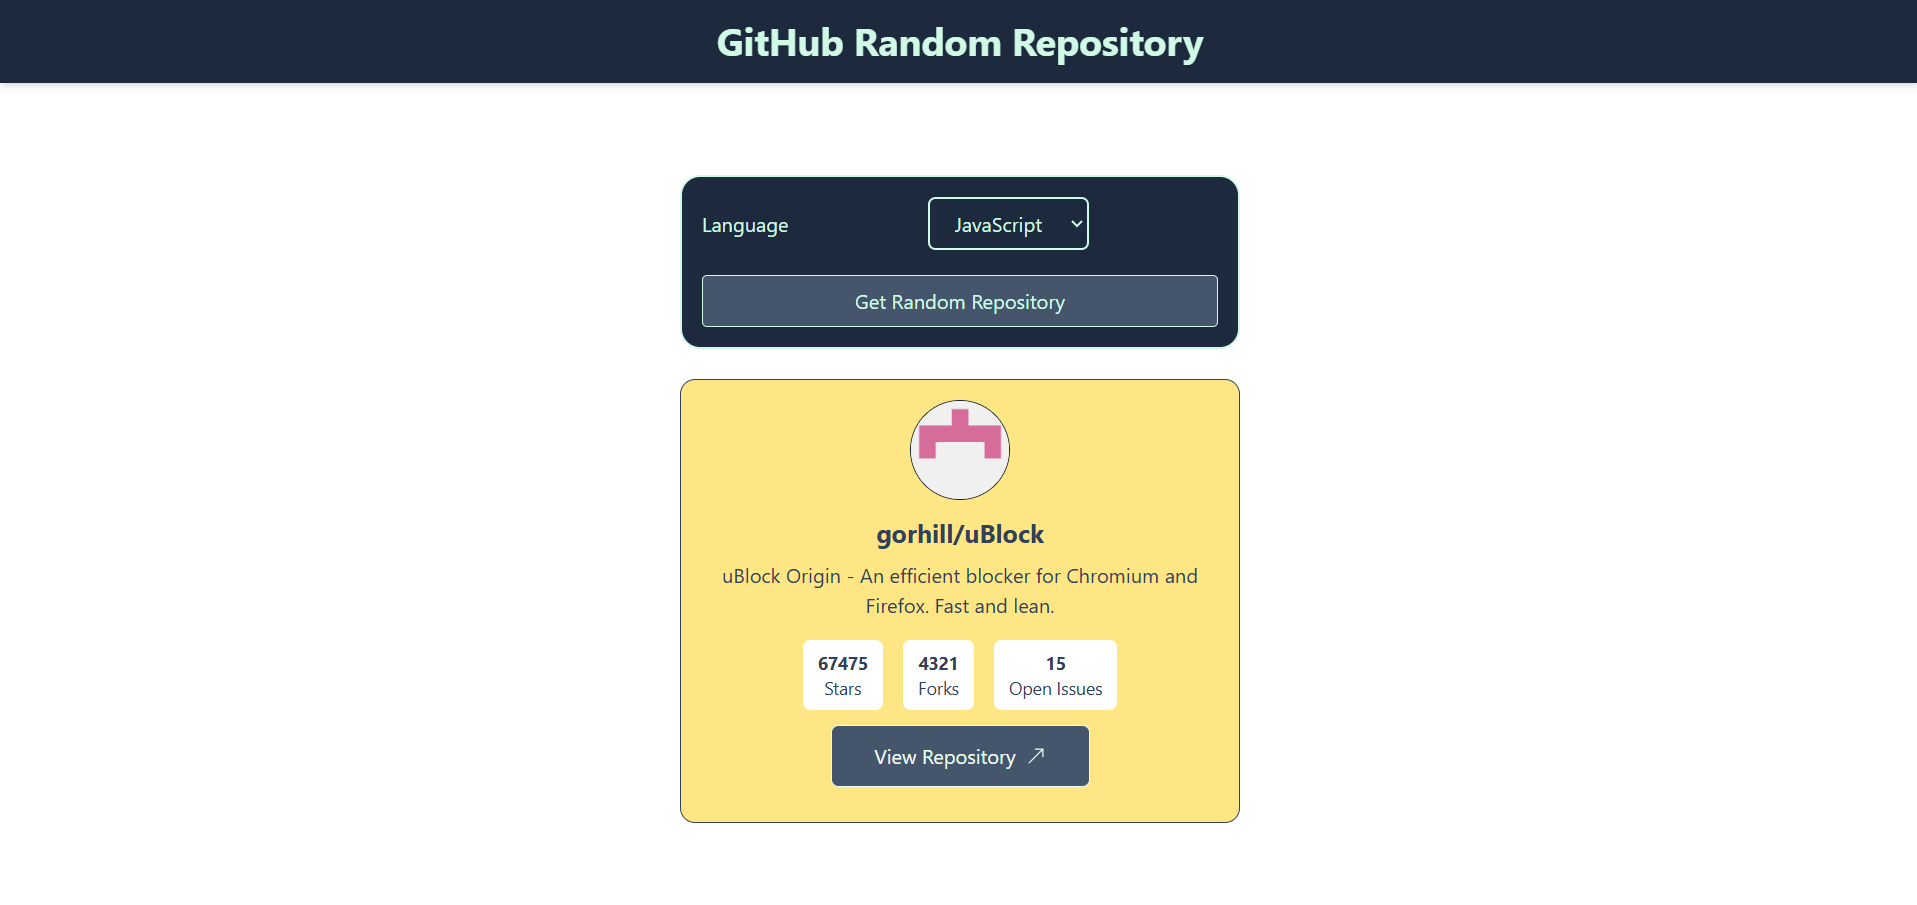
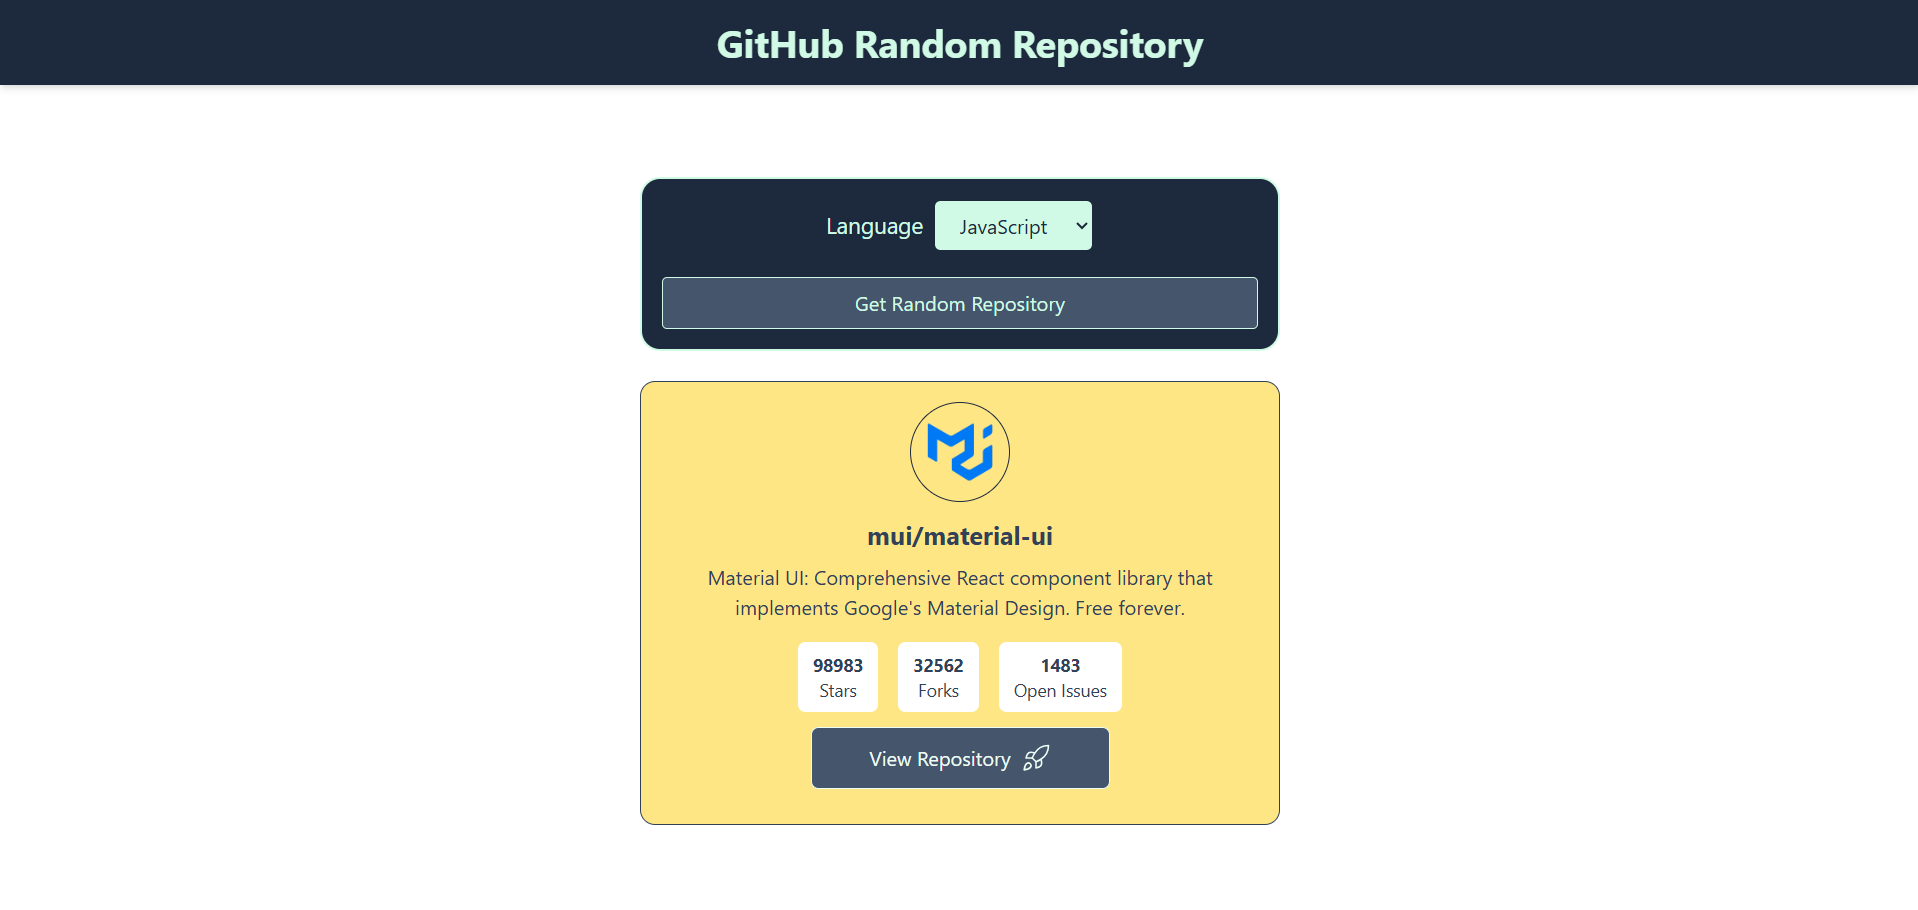
23: Another round for the GitHub Repeositiry project:
* Different components created

diff --git a/23-github-random-repository/src/App.jsx b/23-github-random-repository/src/App.jsx
@@ -1,15 +1,18 @@
 import { useEffect, useState } from "react";
 import { LANGUAGES } from "./languages";
+import { Rocket } from 'lucide-react';
 
 export default function App() {
   const [language, setLanguage] = useState("javascript");
   const [repo, setRepo] = useState(null);
+  const [loading, setLoading] = useState(false)
 
   const API = `https://api.github.com/search/repositories?q=language:${language}`;
   
 
 
     async function fetchData() {
+      setLoading(true)
       try {
         const token = import.meta.env.VITE_GITHUB_TOKEN;
 
@@ -42,6 +45,8 @@ export default function App() {
         
       } catch (error) {
         console.error(error);
+      } finally {
+        setLoading(false)
       }
     }
 
@@ -51,17 +56,17 @@ export default function App() {
 
   return (
     <>
-      <h1 className="fixed top-0 left-0 z-50 m-0 w-full bg-slate-800 px-4 py-4 text-center text-3xl font-bold text-emerald-100 shadow-md">
+      <h1 className="fixed top-0 left-0 z-50 m-0 w-full bg-slate-800 px-4 py-4 text-center text-2xl md:text-3xl font-bold text-emerald-100 shadow-md">
         GitHub Random Repository
       </h1>
       
       <main className="flex min-h-screen items-center justify-center bg-white p-6 pt-24 font-sans">
-        <div className="max-w-md text-center">
+        <div className="max-w-lg md:min-w-md text-center">
           <form action="" className="border-2 bg-slate-800 text-emerald-100 p-4 rounded-2xl flex-col gap-5 flex">
-            <div className="flex justify-between gap-2 items-center">
-              <label className="">Language</label>
+            <div className="flex justify-center gap-2 items-center">
+              <label className="text-lg">Language</label>
               <select
-                className="border-2 bg-slate-800 rounded-md px-4 py-2 m-auto"
+                className="border-2 text-slate-800 bg-emerald-100 rounded-md px-4 py-2"
                 value={language}
                 onChange={(event) => {
                   setLanguage(event.target.value)
@@ -90,66 +95,79 @@ export default function App() {
                 Get Random Repository
             </button>
           </form>
-          {repo && (
-            <div className="mt-6 rounded-xl border bg-amber-200 p-4 text-slate-700">
-              <img
-                src={repo.owner.avatar_url}
-                alt={`${repo.owner.login} avatar`}
-                className="mx-auto h-20 w-20 rounded-full border border-slate-800"
-              />
-
-              <h2 className="mt-3 text-xl font-bold">
-                {repo.full_name}
-              </h2>
-
-              <p className="mt-2">
-                {repo.description}
-              </p>
-
-              <div className="mt-4 flex justify-center gap-4 text-sm">
-                <div className="rounded-md bg-white px-3 py-2">
-                  <p className="font-bold">{repo.stargazers_count}</p>
-                  <p>Stars</p>
-                </div>
-
-                <div className="rounded-md bg-white px-3 py-2">
-                  <p className="font-bold">{repo.forks_count}</p>
-                  <p>Forks</p>
-                </div>
-
-                <div className="rounded-md bg-white px-3 py-2">
-                  <p className="font-bold">{repo.open_issues_count}</p>
-                  <p>Open Issues</p>
-                </div>
-              </div>
-
-              <a
-                href={repo.html_url}
-                target="_blank"
-                rel="noreferrer"
-              >
-                <div className="mx-auto my-3 flex w-7/10 items-center justify-center gap-2 rounded-md border bg-slate-600 p-3 text-emerald-50 hover:bg-slate-900 hover:text-amber-200 md:w-1/2">
-                  View Repository
-
-                  <svg
-                    xmlns="http://www.w3.org/2000/svg"
-                    width="16"
-                    height="16"
-                    fill="currentColor"
-                    className="bi bi-arrow-up-right"
-                    viewBox="0 0 16 16"
-                  >
-                    <path
-                      fillRule="evenodd"
-                      d="M14 2.5a.5.5 0 0 0-.5-.5h-6a.5.5 0 0 0 0 1h4.793L2.146 13.146a.5.5 0 0 0 .708.708L13 3.707V8.5a.5.5 0 0 0 1 0z"
-                    />
-                  </svg>
-                </div>
-              </a>
-            </div>
+          {loading ? (
+            <LoadingCard />
+          ) : (
+            repo && (
+              <RepoCard repo={repo}/>
+            )
           )}
         </div>
       </main>
     </>
   );
+}
+
+function LoadingCard() {
+  return (
+    <div className="mt-6 flex flex-col items-center justify-center gap-4 rounded-xl border border-slate-300 bg-slate-800 p-6 text-emerald-100 shadow-md">
+      <div className="h-10 w-10 animate-spin rounded-full border-4 border-emerald-100 border-t-transparent"></div>
+
+      <div>
+        <p className="font-semibold">Finding a repository...</p>
+        <p className="mt-1 text-sm text-slate-300">
+          Searching GitHub for a random match
+        </p>
+      </div>
+    </div>
+  );
+}
+
+function RepoCard({ repo }) {
+  return (
+    <div className="mt-6 rounded-xl border bg-amber-200 p-4 text-slate-700">
+      <img
+        src={repo.owner.avatar_url}
+        alt={`${repo.owner.login} avatar`}
+        className="mx-auto h-20 w-20 rounded-full border border-slate-800"
+      />
+
+      <h2 className="mt-3 text-xl font-bold">
+        {repo.full_name}
+      </h2>
+
+      <p className="mt-2">
+        {repo.description}
+      </p>
+
+      <div className="mt-4 flex justify-center gap-4 text-sm">
+        <div className="rounded-md bg-white px-3 py-2">
+          <p className="font-bold">{repo.stargazers_count}</p>
+          <p>Stars</p>
+        </div>
+
+        <div className="rounded-md bg-white px-3 py-2">
+          <p className="font-bold">{repo.forks_count}</p>
+          <p>Forks</p>
+        </div>
+
+        <div className="rounded-md bg-white px-3 py-2">
+          <p className="font-bold">{repo.open_issues_count}</p>
+          <p>Open Issues</p>
+        </div>
+      </div>
+
+      <a
+        href={repo.html_url}
+        target="_blank"
+        rel="noreferrer"
+      >
+        <div className="mx-auto my-3 flex w-7/10 items-center justify-center gap-2 rounded-md border bg-slate-600 p-3 text-emerald-50 hover:bg-slate-900 hover:text-amber-200 md:w-1/2">
+          View Repository
+
+          <Rocket strokeWidth={1.25} />
+        </div>
+      </a>
+    </div>
+  )
 }

diff --git a/top_assets/tailwind.css b/top_assets/tailwind.css
@@ -77,6 +77,7 @@
     --spacing: 0.25rem;
     --container-sm: 24rem;
     --container-md: 28rem;
+    --container-lg: 32rem;
     --container-xl: 36rem;
     --container-3xl: 48rem;
     --container-4xl: 56rem;
@@ -117,6 +118,7 @@
     --radius-3xl: 1.5rem;
     --ease-out: cubic-bezier(0, 0, 0.2, 1);
     --ease-in-out: cubic-bezier(0.4, 0, 0.2, 1);
+    --animate-spin: spin 1s linear infinite;
     --default-transition-duration: 150ms;
     --default-transition-timing-function: cubic-bezier(0.4, 0, 0.2, 1);
     --default-font-family: var(--font-sans);
@@ -423,6 +425,9 @@
     width: calc(var(--spacing) * 16);
     height: calc(var(--spacing) * 16);
   }
+  .h-10 {
+    height: calc(var(--spacing) * 10);
+  }
   .h-20 {
     height: calc(var(--spacing) * 20);
   }
@@ -461,6 +466,9 @@
   }
   .w-7\/10 {
     width: calc(7 / 10 * 100%);
+  }
+  .w-10 {
+    width: calc(var(--spacing) * 10);
   }
   .w-20 {
     width: calc(var(--spacing) * 20);
@@ -504,6 +512,9 @@
   .max-w-full {
     max-width: 100%;
   }
+  .max-w-lg {
+    max-width: var(--container-lg);
+  }
   .max-w-md {
     max-width: var(--container-md);
   }
@@ -516,9 +527,15 @@
   .min-w-0 {
     min-width: 0px;
   }
+  .min-w-md {
+    min-width: var(--container-md);
+  }
   .-translate-x-1\/2 {
     --tw-translate-x: calc(calc(1 / 2 * 100%) * -1);
     translate: var(--tw-translate-x) var(--tw-translate-y);
+  }
+  .animate-spin {
+    animation: var(--animate-spin);
   }
   .resize-none {
     resize: none;
@@ -628,6 +645,10 @@
     border-style: var(--tw-border-style);
     border-width: 3px;
   }
+  .border-4 {
+    border-style: var(--tw-border-style);
+    border-width: 4px;
+  }
   .border-s {
     border-inline-start-style: var(--tw-border-style);
     border-inline-start-width: 1px;
@@ -668,6 +689,9 @@
   .border-black {
     border-color: var(--color-black);
   }
+  .border-emerald-100 {
+    border-color: var(--color-emerald-100);
+  }
   .border-gray-700 {
     border-color: var(--color-gray-700);
   }
@@ -677,6 +701,9 @@
   .border-red-500 {
     border-color: var(--color-red-500);
   }
+  .border-slate-300 {
+    border-color: var(--color-slate-300);
+  }
   .border-slate-800 {
     border-color: var(--color-slate-800);
   }
@@ -685,6 +712,9 @@
   }
   .border-white {
     border-color: var(--color-white);
+  }
+  .border-t-transparent {
+    border-top-color: transparent;
   }
   .bg-\(--accent\) {
     background-color: var(--accent);
@@ -742,6 +772,9 @@
   }
   .bg-emerald-50 {
     background-color: var(--color-emerald-50);
+  }
+  .bg-emerald-100 {
+    background-color: var(--color-emerald-100);
   }
   .bg-fuchsia-800 {
     background-color: var(--color-fuchsia-800);
@@ -1136,6 +1169,9 @@
   .text-sky-900 {
     color: var(--color-sky-900);
   }
+  .text-slate-300 {
+    color: var(--color-slate-300);
+  }
   .text-slate-700 {
     color: var(--color-slate-700);
   }
@@ -1526,6 +1562,9 @@
     .md\:max-w-md {
       max-width: var(--container-md);
     }
+    .md\:min-w-md {
+      min-width: var(--container-md);
+    }
     .md\:translate-x-0 {
       --tw-translate-x: 0px;
       translate: var(--tw-translate-x) var(--tw-translate-y);
@@ -1539,6 +1578,10 @@
     .md\:text-2xl {
       font-size: var(--text-2xl);
       line-height: var(--tw-leading, var(--text-2xl--line-height));
+    }
+    .md\:text-3xl {
+      font-size: var(--text-3xl);
+      line-height: var(--tw-leading, var(--text-3xl--line-height));
     }
     .md\:text-5xl {
       font-size: var(--text-5xl);
@@ -1901,6 +1944,11 @@
 @property --tw-drop-shadow-size {
   syntax: "*";
   inherits: false;
+}
+@keyframes spin {
+  to {
+    transform: rotate(360deg);
+  }
 }
 @layer properties {
   @supports ((-webkit-hyphens: none) and (not (margin-trim: inline))) or ((-moz-orient: inline) and (not (color:rgb(from red r g b)))) {
